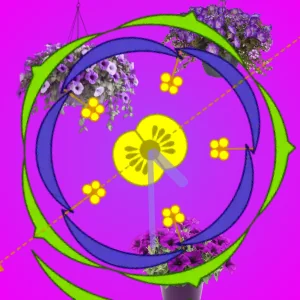
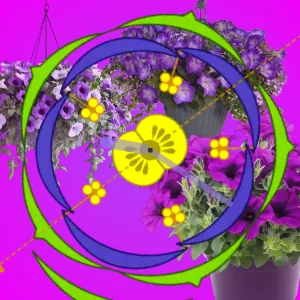
x

diff --git a/src/pages/2026/26-06/26-06-07/Clock.tsx b/src/pages/2026/26-06/26-06-07/Clock.tsx
@@ -1,4 +1,4 @@
-import fontUrl from '@/assets/fonts/26fonts/26-04-23.otf';
+import fontUrl from '@/assets/fonts/26fonts/26-06-07.ttf?url';
 import backgroundVideo from '@/assets/images/26_images/26-06/26-06-07/spacewalk.mp4';
 import type { FontConfig } from '@/types/clock';
 import { useClockTime } from '@/utils/clockUtils';
@@ -6,31 +6,48 @@ import {
   ClockLoadingFallback,
   useSuspenseFontLoader,
 } from '@/utils/fontLoader';
-import React, { Suspense, useMemo } from 'react';
+import React, { Suspense } from 'react';
 import styles from './Clock.module.css';
+
+export const assets = [backgroundVideo, fontUrl];
+
+export const fontConfigs: FontConfig[] = [
+  { fontFamily: 'Clock26-06-07', fontUrl },
+];
 
 const formatTime = (num: number): string => num.toString().padStart(2, '0');
 const formatMs = (num: number): string => num.toString().padStart(3, '0');
 
 const ClockInner: React.FC = () => {
-  const fontConfigs = useMemo<FontConfig[]>(
-    () => [{ fontFamily: 'Clock26-04-23', fontUrl }],
-    [],
-  );
   useSuspenseFontLoader(fontConfigs);
 
-  const time = useClockTime();
+  const time = useClockTime('ms');
 
   const h = formatTime(time.getHours());
   const m = formatTime(time.getMinutes());
   const s = formatTime(time.getSeconds());
-  const ms = formatMs(time.getMilliseconds());
 
-  // Join them to treat the milliseconds as part of the sequence
-  const allDigits = (h + m + s + ms).split('');
+  // Show only 2 digits for milliseconds
+  const ms = formatMs(time.getMilliseconds());
+  const ms2 = ms.slice(0, 2);
+  const allDigits = (h + m + s + ms2).split('');
 
   return (
-    <div className={styles.container}>
+    <div
+      className={styles.container}
+      style={{
+        position: 'relative',
+        height: '100dvh',
+        width: '100vw',
+        margin: 0,
+        padding: '2rem 0 0 0',
+        display: 'flex',
+        alignItems: 'flex-start',
+        justifyContent: 'center',
+        overflow: 'hidden',
+        backgroundColor: '#ff0000',
+      }}
+    >
       <video
         className={styles.video}
         autoPlay
@@ -38,13 +55,39 @@ const ClockInner: React.FC = () => {
         loop
         playsInline
         preload="auto"
+        style={{
+          position: 'absolute',
+          inset: 0,
+          width: '100vw',
+          height: '100dvh',
+          objectFit: 'cover',
+          zIndex: 0,
+          pointerEvents: 'none',
+        }}
       >
         <source src={backgroundVideo} type="video/mp4" />
       </video>
 
-      <main className={styles.digitsContainer}>
+      <main
+        className={styles.digitsContainer}
+        style={{
+          position: 'relative',
+          zIndex: 1,
+          display: 'flex',
+          justifyContent: 'center',
+        }}
+      >
         {allDigits.map((digit, index) => (
-          <span key={index} className={styles.digitBox}>
+          <span
+            key={index}
+            className={styles.digitBox}
+            style={{
+              display: 'inline-block',
+              width: '1ch',
+              textAlign: 'center',
+              fontVariantNumeric: 'tabular-nums',
+            }}
+          >
             {digit}
           </span>
         ))}

diff --git a/src/pages/2026/26-06/26-06-07/Clock.module.css b/src/pages/2026/26-06/26-06-07/Clock.module.css
@@ -3,22 +3,22 @@
   height: 100dvh;
   display: flex;
   justify-content: center;
-  align-items: center;
+  align-items: flex-start;
   position: relative;
   overflow: hidden;
   margin: 0;
-  padding: 0;
-  background-color: #020202;
+  padding: 2rem 0 0 0;
+  background-color: #CD2500;
 }
 
 .video {
   position: absolute;
-  top: 50%;
-  left: 50%;
-  transform: translate(-50%, -50%);
-  width: auto;
-  height: 90dvh;
-  object-fit: contain;
+  inset: 0;
+  width: 100vw;
+  height: 100dvh;
+  filter: grayscale(1) contrast(1.2);
+  mix-blend-mode: screen;
+  object-fit: cover;
   z-index: 0;
 }
 
@@ -26,20 +26,20 @@
   position: relative;
   z-index: 1;
   display: flex;
-  flex-direction: column;
+  flex-direction: row;
   align-items: center;
   justify-content: center;
-  height: 100dvh;
+  gap: 0;
   -webkit-user-select: none;
   user-select: none;
 }
 
 .digitBox {
-  font-size: calc(100dvh / 10);
+  font-size: calc(100dvw / 10);
   font-weight: 300;
-  font-family: 'Clock26-04-23', monospace;
-  color: #faea107b;
-  text-shadow: 0 4px 15px rgba(0, 0, 0, 0.963);
+  font-family: 'Clock26-06-07', monospace;
+  color: #ece8e8ab;
+  text-shadow: 1px 1px 0px rgba(244, 240, 240, 0.586), -1px -1px 0px rgba(20, 1, 1, 0.9);
   line-height: 0.85;
   font-variant-numeric: tabular-nums;
 }

diff --git a/src/pages/2026/26-06/26-06-05/Clock.module.css b/src/pages/2026/26-06/26-06-05/Clock.module.css
@@ -43,8 +43,8 @@
   top: 50%;
   left: 50%;
   transform: translate(-50%, -50%);
-  width: 60vh;
-  height: 60vh;
+  width: 35vh;
+  height: 35vh;
   z-index: 20;
 }
 
@@ -59,9 +59,9 @@
 .number {
   position: absolute;
   font-family: 'ClockFont_26_06_05', monospace;
-  font-size: 8vh;
+  font-size: 28vh;
   color: #f8f7f7;
-  text-shadow: 1px 1px 10px rgb(245, 4, 4);
+  text-shadow: 1px 1px 0px rgb(246, 219, 13);
   transform: translate(-50%, -50%);
   z-index: 2;
 }
@@ -93,18 +93,18 @@
   transform-origin: bottom center;
   border-radius: 4px;
   background-color: #f8f7f757;
-  box-shadow: 1px 1px 10px rgb(245, 4, 4);
+  box-shadow: 1px 1px 10px rgba(19, 17, 2, 0.743);
   transform: rotate(var(--rotation));
 }
 
 .hour {
-  width: 1.5vh;
+  width: 1.2vh;
   height: 20%;
   margin-left: -0.75vh;
 }
 
 .minute {
-  width: 1vh;
+  width: 0.8vh;
   height: 35%;
   margin-left: -0.5vh;
 }

diff --git a/src/pages/2026/26-06/26-06-06/Clock.module.css b/src/pages/2026/26-06/26-06-06/Clock.module.css
@@ -26,33 +26,33 @@
 .hangOverlay {
   position: absolute;
   top: 0px;
-  left: 6px;
-  width: clamp(120px, 48vw, 300px);
+  left: -56px;
+  width: clamp(120px, 68vw, 700px);
   height: auto;
     opacity: 0.8;
-  z-index: 20;
+  z-index: 4;
   pointer-events: none;
 }
 
 .hangOverlay2 {
   position: absolute;
-  top: -37px;
-  right: 20px;
-  width: clamp(120px, 42vw, 300px);
+  top: -57px;
+  right: 1px;
+  width: clamp(120px, 72vw, 500px);
   height: auto;
   opacity: 0.9;
-  z-index: 20;
+  z-index: 5;
   pointer-events: none;
 }
 
 .hangOverlay3 {
   position: absolute;
-  bottom: -11px;
+  bottom: -21px;
   left: 40%;
-  width: clamp(120px, 42vw, 300px);
+  width: clamp(120px, 92vw, 500px);
   height: auto;
   opacity: 0.9;
-  z-index: 20;
+  z-index: 7;
   pointer-events: none;
 }
 

diff --git a/src/utils/clockUtils.ts b/src/utils/clockUtils.ts
@@ -21,12 +21,16 @@ export function useClockTime(_precision?: 'ms' | 's'): Date {
   const [time, setTime] = useState<Date>(new Date());
 
   useEffect(() => {
-    const timer = setInterval(() => setTime(new Date()), 1000);
+    // If callers want milliseconds, update more frequently.
+    // Note: UI only needs ~30-60fps for smoothness; 50ms is a good balance.
+    const intervalMs = _precision === 'ms' ? 50 : 1000;
+    const timer = setInterval(() => setTime(new Date()), intervalMs);
     return () => clearInterval(timer);
-  }, []);
+  }, [_precision]);
 
   return time;
 }
+
 
 /**
  * Formats a Date object into a string based on the specified format.
